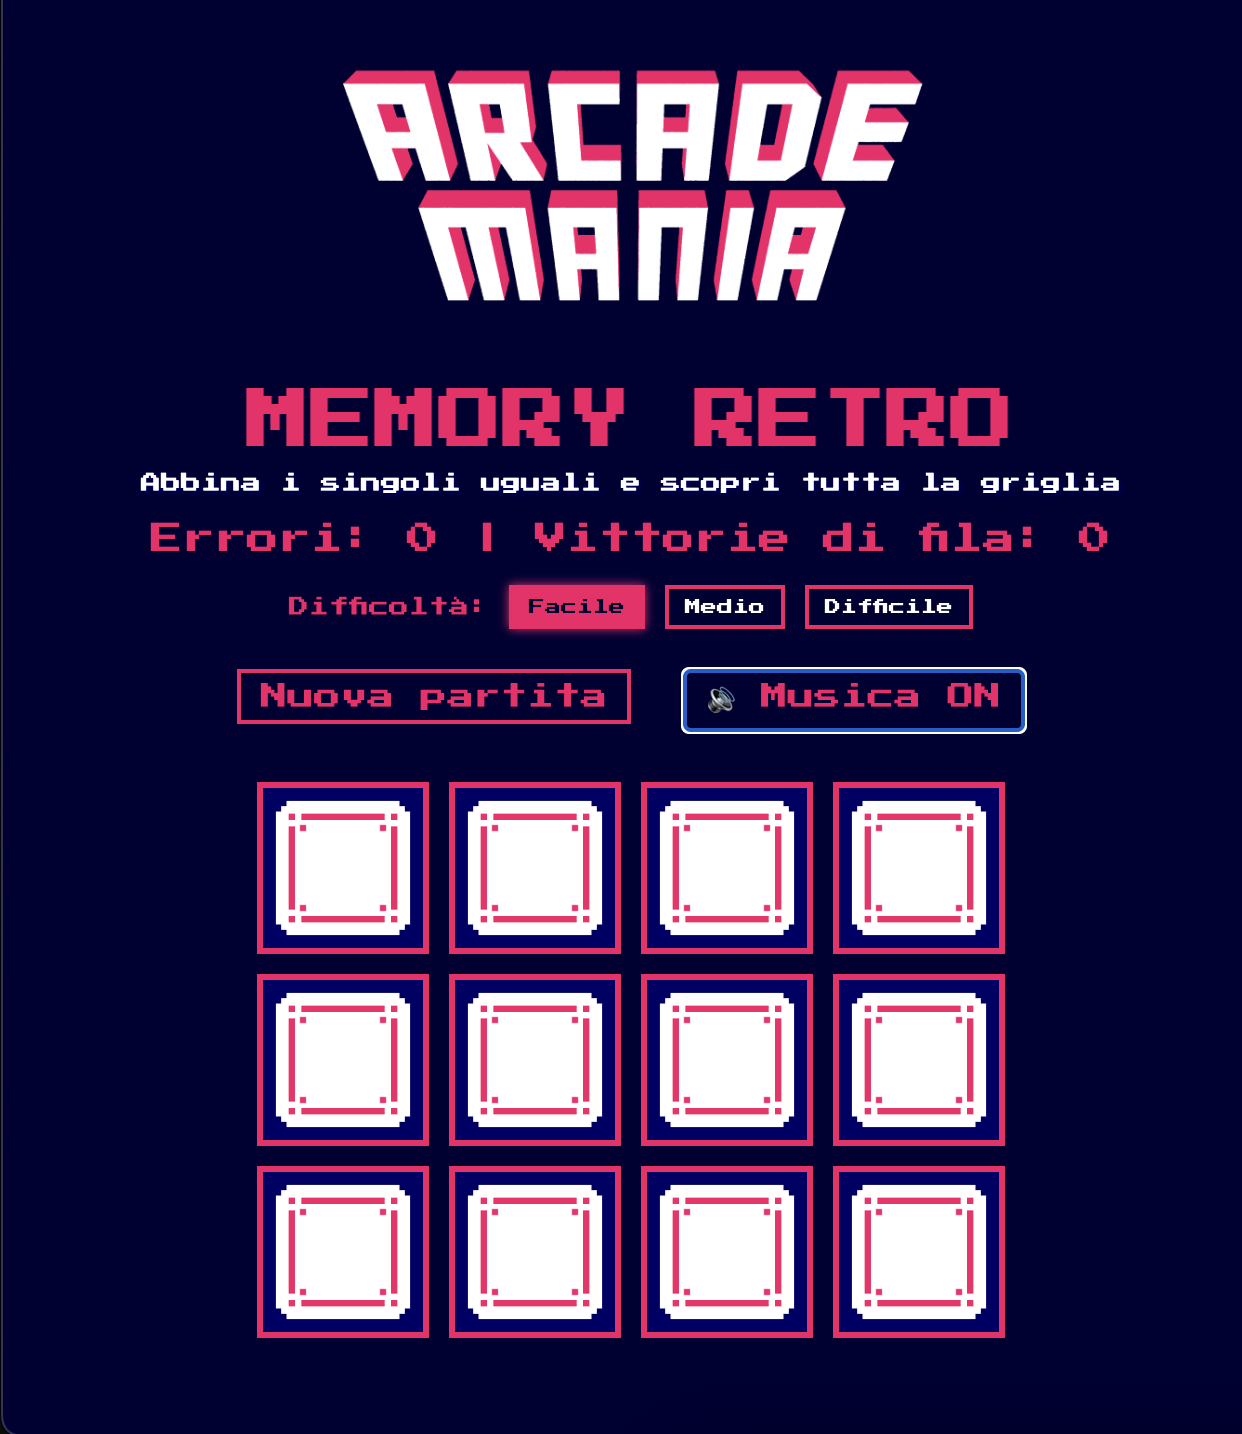
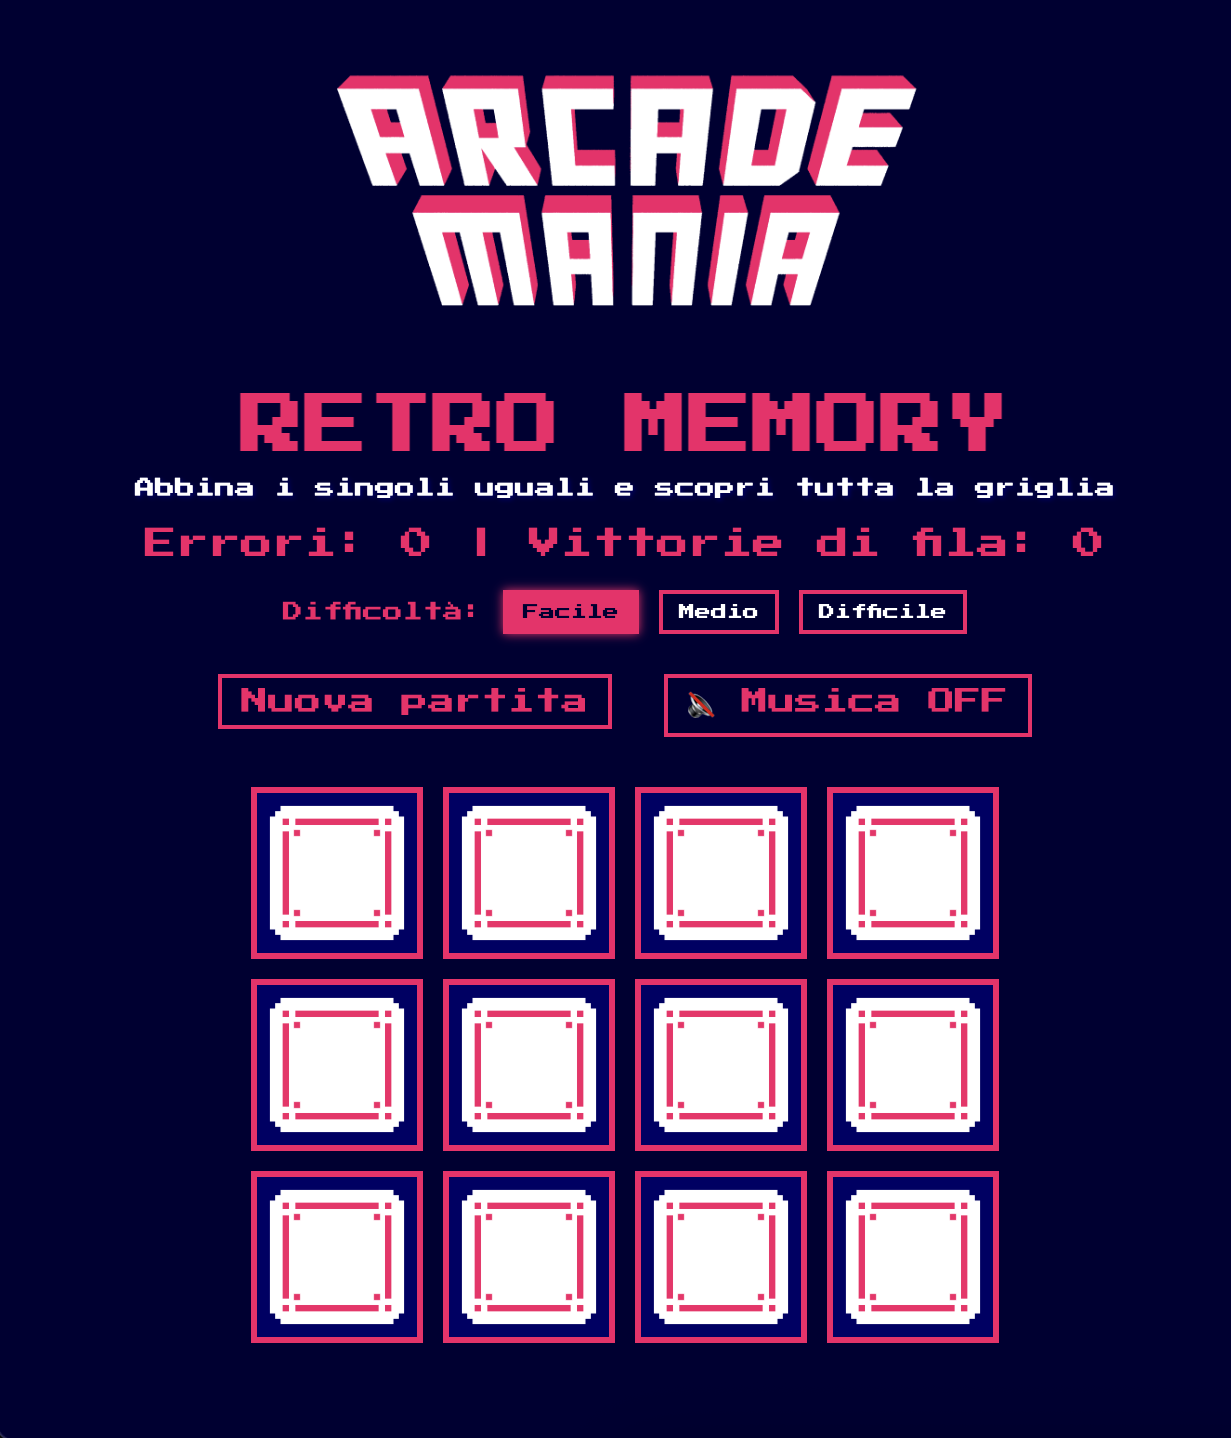
Name changed

Changed region(s): [[0.0926, 0.2455, 0.8952, 0.9512], [0.2778, 0.0307, 0.7409, 0.2148], [0.0, 0.9819, 0.0309, 1.0]]

diff --git a/indext.html b/indext.html
@@ -2,7 +2,7 @@
 <html lang="it">
 <head>
   <meta charset="UTF-8" />
-  <title>Memory Retro</title>
+  <title>Retro Memory</title>
   <link rel="stylesheet" href="style.css" />
   <link href="https://fonts.googleapis.com/css2?family=Press+Start+2P&display=swap" rel="stylesheet">
 </head>
@@ -10,7 +10,7 @@
 
 <img src="images/logo.png" alt="Logo" id="hero-logo" />
 
-<h1>MEMORY RETRO</h1>
+<h1>RETRO MEMORY</h1>
 <p id="rules">Abbina i singoli uguali e scopri tutta la griglia</p>
 
 <div id="score">

diff --git a/readme.md b/readme.md
@@ -1,4 +1,4 @@
-# Memory Retro
+# Retro Memory
 
 ## Descrizione
 
